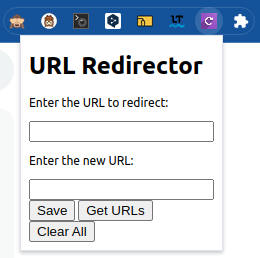
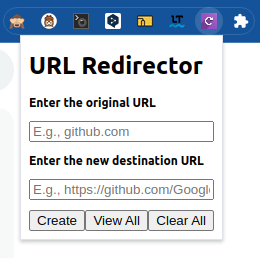
style: add basic design

diff --git a/popup.html b/popup.html
@@ -1,18 +1,47 @@
 <!DOCTYPE html>
 <html>
 
+  <head>
+    <title>URL Redirector</title>
+    <style>
+      .input-container {
+        margin-bottom: 10px;
+      }
+
+      .button-container {
+        display: flex;
+        justify-content: space-between;
+      }
+
+    </style>
+  </head>
+
   <body>
 
     <div id="main">
       <h1>URL Redirector</h1>
-      <p>Enter the URL to redirect:</p>
-      <input type="text" id="originURL">
-      <p>Enter the new URL:</p>
-      <input type="text" id="redirectURL">
-      <button id="saveButton">Save</button>
-      <button id="getURLs">Get URLs</button>
-      <button id="clearURLs">Clear All</button>
+
+      <div class="container">
+        <div class="input-container">
+          <p><b>Enter the original URL</b></p>
+          <input type="text" id="originURL" placeholder="E.g., github.com">
+        </div>
+
+        <div class="input-container">
+          <p><b>Enter the new destination URL</b></p>
+          <input type="text" id="redirectURL"
+            placeholder="E.g., https://github.com/GoogleChrome/chrome-extensions-samples">
+        </div>
+
+        <div class="button-container">
+          <button id="saveButton">Create</button>
+          <button id="getURLs">View All</button>
+          <button id="clearURLs">Clear All</button>
+        </div>
+
+      </div>
     </div>
+
     
     <script src="popup.js"></script>
   </body>
